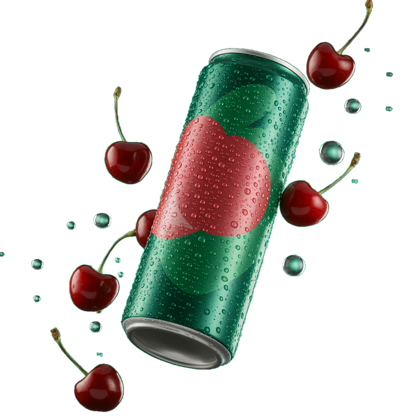
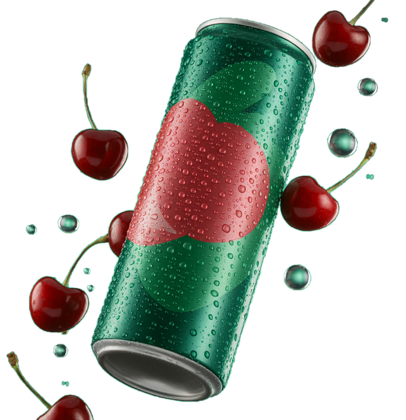
W kafelkach widać całą puszkę
Miniatury były kwadratowym kadrem ze środka renderu, więc ucinały puszce
górę i dół — w kafelku widać było sam środek etykiety. tools/canthumb.swift
znajduje teraz największą spójną wyspę pikseli nieprzezroczystych (owoce są
osobnymi, mniejszymi wyspami, więc największa to zawsze puszka) i przycina
kadr do jej prostokąta z marginesem.

W CSS zamiast skalowania na ślepo jest object-fit: contain, więc puszka
mieści się w kafelku niezależnie od proporcji wycinka — a te wychodzą różne,
bo przy wiśni owoce dotykają puszki i wchodzą do tej samej wyspy.

Kafelki urosły i wchodziły na wiersz parametrów, więc hero dostał większy
dolny odstęp, a same kafelki są odrobinę węższe.

diff --git a/tools/canthumb.swift b/tools/canthumb.swift
@@ -1,0 +1,87 @@
+// Wycina z wyciętego renderu samą puszkę, bez owoców dookoła.
+//
+// Miniatury do kafelków były kwadratowym kadrem ze środka obrazu, przez co
+// ucinały puszce górę i dół. Tutaj szukam największej spójnej wyspy pikseli
+// nieprzezroczystych — owoce są osobnymi, mniejszymi wyspami, więc największa
+// z nich to zawsze puszka — i przycinam do jej prostokąta z marginesem.
+//
+// użycie: canthumb <wejście.png> <wyjście.png> [wysokość wyniku]
+
+import Foundation
+import AppKit
+
+let args = CommandLine.arguments
+guard args.count >= 3 else { print("canthumb <in.png> <out.png> [h]"); exit(1) }
+let outH = args.count > 3 ? Int(args[3])! : 720
+
+guard let img = NSImage(contentsOfFile: args[1]),
+      let cg = img.cgImage(forProposedRect: nil, context: nil, hints: nil) else {
+    print("nie mogę wczytać \(args[1])"); exit(1)
+}
+
+let w = cg.width, h = cg.height
+var buf = [UInt8](repeating: 0, count: w * h * 4)
+let cs = CGColorSpaceCreateDeviceRGB()
+let ctx = CGContext(data: &buf, width: w, height: h, bitsPerComponent: 8,
+                    bytesPerRow: w * 4, space: cs,
+                    bitmapInfo: CGImageAlphaInfo.premultipliedLast.rawValue)!
+ctx.draw(cg, in: CGRect(x: 0, y: 0, width: w, height: h))
+// wiersz 0 na GÓRZE obrazu — indeks (y*w + x)
+
+let SOLID: UInt8 = 40                      // próg, od którego uznaję piksel za treść
+var seen = [Bool](repeating: false, count: w * h)
+var best = (count: 0, x0: 0, y0: 0, x1: 0, y1: 0)
+
+var stack = [Int]()
+for start in 0..<(w * h) {
+    if seen[start] || buf[start * 4 + 3] < SOLID { continue }
+    stack.removeAll(keepingCapacity: true)
+    stack.append(start)
+    seen[start] = true
+
+    var count = 0
+    var x0 = w, y0 = h, x1 = 0, y1 = 0
+
+    while let i = stack.popLast() {
+        let x = i % w, y = i / w
+        count += 1
+        if x < x0 { x0 = x }; if x > x1 { x1 = x }
+        if y < y0 { y0 = y }; if y > y1 { y1 = y }
+
+        for (dx, dy) in [(1, 0), (-1, 0), (0, 1), (0, -1)] {
+            let nx = x + dx, ny = y + dy
+            if nx < 0 || ny < 0 || nx >= w || ny >= h { continue }
+            let j = ny * w + nx
+            if seen[j] || buf[j * 4 + 3] < SOLID { continue }
+            seen[j] = true
+            stack.append(j)
+        }
+    }
+    if count > best.count { best = (count, x0, y0, x1, y1) }
+}
+
+guard best.count > 0 else { print("nic nie znalazłem"); exit(1) }
+
+// margines, żeby puszka nie kleiła się do krawędzi kafelka
+let padX = (best.x1 - best.x0) / 12
+let padY = (best.y1 - best.y0) / 22
+let cx0 = max(0, best.x0 - padX), cy0 = max(0, best.y0 - padY)
+let cx1 = min(w - 1, best.x1 + padX), cy1 = min(h - 1, best.y1 + padY)
+let cw = cx1 - cx0 + 1, ch = cy1 - cy0 + 1
+
+let crop = cg.cropping(to: CGRect(x: cx0, y: cy0, width: cw, height: ch))!
+let outW = Int((Double(cw) / Double(ch) * Double(outH)).rounded())
+
+var out = [UInt8](repeating: 0, count: outW * outH * 4)
+let octx = CGContext(data: &out, width: outW, height: outH, bitsPerComponent: 8,
+                     bytesPerRow: outW * 4, space: cs,
+                     bitmapInfo: CGImageAlphaInfo.premultipliedLast.rawValue)!
+octx.interpolationQuality = .high
+octx.draw(crop, in: CGRect(x: 0, y: 0, width: outW, height: outH))
+
+let rep = NSBitmapImageRep(cgImage: octx.makeImage()!)
+try! rep.representation(using: .png, properties: [:])!
+    .write(to: URL(fileURLWithPath: args[2]))
+
+let pct = best.count * 100 / (w * h)
+print("puszka: \(cw)x\(ch) px (wyspa \(pct)% kadru) -> \(outW)x\(outH)")

diff --git a/css/style.css b/css/style.css
@@ -113,7 +113,7 @@ button{ font:inherit; color:inherit; background:none; border:0; cursor:pointer; 
   position:relative;
   min-height:100svh;
   display:flex; flex-direction:column; justify-content:center;
-  padding:120px clamp(18px,3.4vw,44px) clamp(150px,26vh,240px);
+  padding:104px clamp(18px,3.4vw,44px) clamp(230px,36vh,330px);
   overflow:hidden;
 }
 
@@ -221,7 +221,7 @@ button{ font:inherit; color:inherit; background:none; border:0; cursor:pointer; 
 
 .lede__stats{
   display:flex; flex-wrap:wrap; gap:28px;
-  margin:38px 0 0; padding-top:22px;
+  margin:32px 0 0; padding-top:20px;
   border-top:1px solid var(--line);
 }
 .lede__stats dt{
@@ -249,7 +249,7 @@ button{ font:inherit; color:inherit; background:none; border:0; cursor:pointer; 
 
 .chip{
   position:relative; overflow:hidden; isolation:isolate;
-  width:clamp(116px,11.5vw,164px);
+  width:clamp(112px,10.8vw,152px);
   padding:14px 16px 16px; text-align:left;
   border-radius:22px;
   background:var(--glass); border:1px solid var(--line);
@@ -269,16 +269,18 @@ button{ font:inherit; color:inherit; background:none; border:0; cursor:pointer; 
   transition:opacity .55s var(--ease), transform .55s var(--ease);
 }
 
+/* Miniatura mieści CAŁĄ puszkę — wcześniej kadr był kwadratowy i ucinał
+   jej górę oraz dół. `contain` zamiast przeskalowania na ślepo. */
 .chip__shot{
   position:relative; display:block;
-  width:100%; height:74px; margin-bottom:12px;
+  width:100%; height:124px; margin-bottom:12px;
   border-radius:14px; overflow:hidden;
   background:rgba(0,0,0,.22);
 }
 .chip__shot img{
-  position:absolute; top:50%; left:50%;
-  width:auto; height:172%; max-width:none;
-  transform:translate(-50%,-50%);
+  position:absolute; inset:0;
+  width:100%; height:100%; max-width:none;
+  object-fit:contain;
   transition:transform .6s var(--ease), filter .6s var(--ease);
 }
 
@@ -304,7 +306,7 @@ button{ font:inherit; color:inherit; background:none; border:0; cursor:pointer; 
 }
 .chip:hover .chip__wash{ opacity:.55; transform:translateY(0); }
 .chip:hover .chip__shot img{
-  transform:translate(-50%,-58%) scale(1.16) rotate(-6deg);
+  transform:translateY(-7px) scale(1.12) rotate(-5deg);
   filter:drop-shadow(0 18px 24px rgba(0,0,0,.55));
 }
 .chip:hover .chip__go{ opacity:1; transform:none; }

diff --git a/index.html b/index.html
@@ -8,7 +8,7 @@
 <link rel="preconnect" href="https://fonts.googleapis.com">
 <link rel="preconnect" href="https://fonts.gstatic.com" crossorigin>
 <link href="https://fonts.googleapis.com/css2?family=Inter:wght@300;400;500;600;700&family=Yellowtail&display=swap" rel="stylesheet">
-<link rel="stylesheet" href="css/style.css?v=14">
+<link rel="stylesheet" href="css/style.css?v=16">
 </head>
 <body data-flavor="cherry">
 
